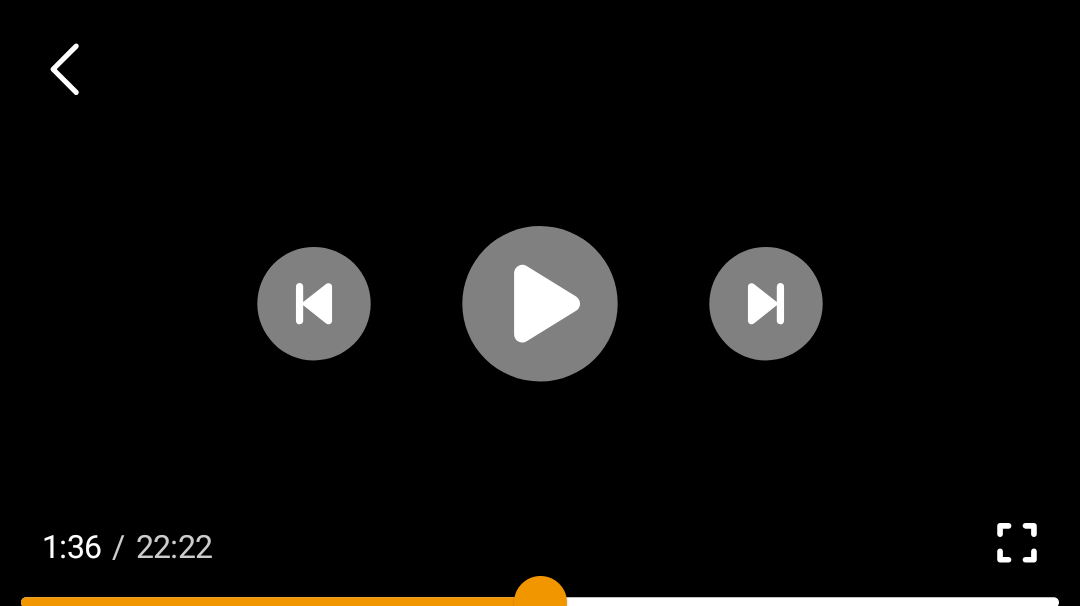
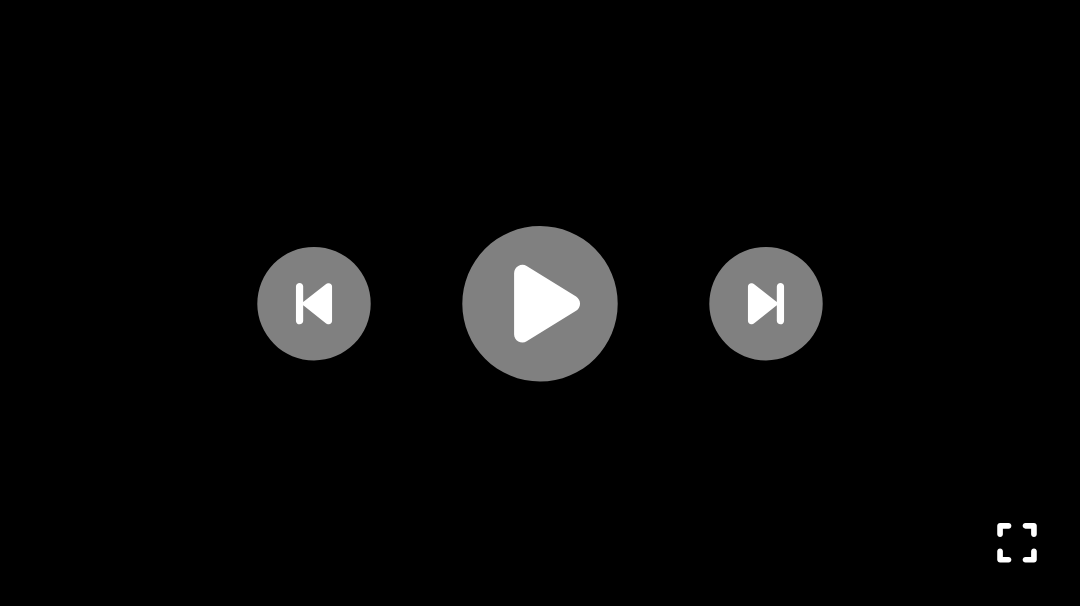
[[AOS] Video Player](https://app.clickup.com/t/865d1e1w9)
fixed snapshot

diff --git a/mobile-design/src/main/java/com/nmg/mobile/design/widgets/videoplayer/VideoPlayerControl.kt b/mobile-design/src/main/java/com/nmg/mobile/design/widgets/videoplayer/VideoPlayerControl.kt
@@ -226,7 +226,7 @@ fun VideoPlayerControlPlayingTabOrPauseOrCompletedView(
                         )
                     }
 
-                    VideoPlayerControlState.COMPLETED -> {
+                    VideoPlayerControlState.COMPLETED_CANCEL_AUTOPLAY -> {
                         Icon(
                             modifier = Modifier
                                 .width(60.dp)
